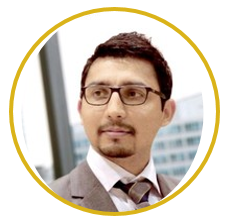
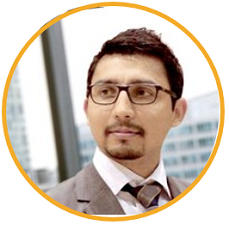
done

diff --git a/index.html b/index.html
@@ -13,6 +13,12 @@
 		<noscript><link rel="stylesheet" href="assets/css/noscript.css" /></noscript>
 	</head>
 	<body class="is-preload">
+	<script type="text/javascript">
+	  function myFunction() {
+	 var dt = new Date();
+	 alert(dt);
+	}
+	</script>
 		<!-- Wrapper -->
 			<div id="wrapper">
 
@@ -68,7 +74,7 @@
 					<nav id="menu">
 						<h2>55 PUMPKIN</h2>
 						<ul>
-							<li><a href="index.html">Home</a></li>
+							<li><a href="index.html" onclick="myFunction();">Home</a></li>
 							<li><a href="#offerings">Offerings</a></li>
 							<li><a href="#team">Team</a></li>
 							<li><a href="#contact">Contact</a></li>
@@ -99,35 +105,42 @@
 													<div class="col-6 col-12-medium">
 														<ul class="actions small">
 															
-															<li><a href="#rpa" class="button small">RPA</a></li>
-															<li><a href="#ml" class="button small">ML</a></li>
-															<li><a href="#ai" class="button small">AI</a></li>
-															<li><a href="#" class="button small">ANALYTICS</a></li>
-															<li><a href="#" class="button small">LOGGING</a></li>
+															<li><a href="#rpa" class="button large">RPA</a></li>
+															<li><a href="#ml" class="button small">ROBOTICS PROCESS AUTOMATION</a></li>
+													
 														</ul>
 														<ul class="actions small">
 															
-															<li><a href="#rpa" class="button small">RPA</a></li>
-															<li><a href="#ml" class="button small">ML</a></li>
-															<li><a href="#ai" class="button small">AI</a></li>
-															<li><a href="#" class="button small">ANALYTICS</a></li>
-															<li><a href="#" class="button small">LOGGING</a></li>
-														</ul>
-
-														<ul class="actions small">
 															
-															<li><a href="#rpa" class="button small">RPA</a></li>
-															<li><a href="#ml" class="button small">ML</a></li>
-															<li><a href="#ai" class="button small">AI</a></li>
-															<li><a href="#" class="button small">ANALYTICS</a></li>
-															<li><a href="#" class="button small">LOGGING</a></li>
+															<li><a href="#ml" class="button large">ML</a></li>
+															<li><a href="#" class="button small">DATA ANALYSIS</a></li>
+															<li><a href="#ai" class="button small">MACHINE LEARNING</a></li>
+															<li><a href="#" class="button small">ARTIFICIAL INTELLIGENCE</a></li>
+															
 														</ul>
 
 														<ul class="actions small">
 															
-															<li><a href="#rpa" class="button small">RPA</a></li>
-															<li><a href="#ml" class="button small">ML</a></li>
-															<li><a href="#ai" class="button small">AI</a></li>
+															<li><a href="#rpa" class="button large">ANALYTICS</a></li>
+															<li><a href="#ml" class="button small">REAL TIME</a></li>
+															<li><a href="#ai" class="button small">BUSINESS INSIGHTS</a></li>
+															
+														</ul>
+
+														<ul class="actions small">
+															
+															<li><a href="#rpa" class="button large">MONITORING</a></li>
+															<li><a href="#ml" class="button small">BOT MONITORING</a></li>
+															<li><a href="#ai" class="button small">BOT INSIGHTS</a></li>
+															<li><a href="#ai" class="button small">REPORTING</a></li>
+															
+														</ul>
+
+														<ul class="actions small">
+															
+															<li><a href="#rpa" class="button large">SUPPORT</a></li>
+															<li><a href="#ml" class="button small">POST PRODUCTION</a></li>
+															<li><a href="#ai" class="button small">ENHANCEMENTS</a></li>
 															<li><a href="#" class="button small">ANALYTICS</a></li>
 															<li><a href="#" class="button small">LOGGING</a></li>
 														</ul>
@@ -150,7 +163,7 @@
 											
 											
 											
-											<h3>Nav Randhawa</h3>
+											<h2>Nav Randhawa - <span style="color:#DAB319">CEO</span></h2>
 											<p><span class="image left"><img src="images/nav.png" alt="" /></span>
 Technical Consultant with more than 10+ years of professional experience in Software development, IT Consulting and Industry.
 Designed and delivered multiple projects in Robotic Process Automation using WorkFusion, OpenSpan tools (now Pega Systems).
@@ -164,87 +177,19 @@ Possess strong technical knowledge in RPA Tools(Workfusion, OpenSpan), Git, TFS,
 
 											</p>
 
-											<h3>Amaninder Hajrah</h3>
-											<p><span class="image right"><img src="images/nav.png" alt="" /></span>`tis eget. tempus euismod. Vestibulum ante ipsum primis in faucibus vestibulum. Blandit adipiscing eu felis iaculis volutpat ac adipiscing accumsan eu faucibus. Integer ac pellentesque praesent.</p><br><br>
+											<h2>Amaninder Hajrah  - <span style="color:#DAB319">CTO</span></h2>
+											<p><span class="image right"><img src="images/ricky.png" alt="" /></span>`tis eget. tempus euismod. Vestibulum ante ipsum primis in faucibus vestibulum. Blandit adipiscing eu felis iaculis volutpat ac adipiscing accumsan eu faucibus. Integer ac pellentesque praesent.</p><br><br>
 
-											<h3>Soumya Swain</h3>
-											<p><span class="image left"><img src="images/nav.png" alt="" /></span>`tis eget. tempus euismod. Vestibulum ante ipsum primis in faucibus vestibulum. Blandit adipiscing eu felis iaculis volutpat ac adipiscing accumsan eu faucibus. Integer ac pellentesque praesent.</p>
+											<h2>Soumya Swain  - <span style="color:#DAB319">CFO</span></h2>
+											<p><span class="image left"><img src="images/soumya.png" alt="" /></span>- Developing and implementing software systems and applications to achieve corporate objectives.<br>
+- Applying accepted theories of decision analysis to forecasting and linear programming.<br>
+- Analyzing current systems and create, test, implement, maintain and document programs through knowledge of the system-development cycle. </p>
 										
 										</div>
 									</section>
 								</div>
 							</footer1>
 
-							<!--
-							<section class="tiles">
-								<article class="style1">
-									<span class="image">
-										<img src="images/pic01.jpg" alt="" />
-									</span>
-									<a href="machine_learning.html">
-										<h2>RPA</h2>
-										<div class="content">
-											<p>Robotics Process Automation</p>
-										</div>
-									</a>
-								</article>
-								<article class="style2">
-									<span class="image">
-										<img src="images/pic02.jpg" alt="" />
-									</span>
-									<a href="machine_learning.html">
-										<h2>ML/AI</h2>
-										<div class="content">
-											<p>Machine Learning and Artificial Intelligence</p>
-										</div>
-									</a>
-								</article>
-								<article class="style3">
-									<span class="image">
-										<img src="images/pic03.jpg" alt="" />
-									</span>
-									<a href="machine_learning.html">
-										<h2>Integration</h2>
-										<div class="content">
-											<p>Middleware integration technologies.</p>
-										</div>
-									</a>
-								</article>
-								<article class="style4">
-									<span class="image">
-										<img src="images/pic04.jpg" alt="" />
-									</span>
-									<a href="machine_learning.html">
-										<h2>Reporting</h2>
-										<div class="content">
-											<p>Reporting solutions customised to meet Busines and IT needs</p>
-										</div>
-									</a>
-								</article>
-								<article class="style5">
-									<span class="image">
-										<img src="images/pic05.jpg" alt="" />
-									</span>
-									<a href="machine_learning.html">
-										<h2>Logging</h2>
-										<div class="content">
-											<p>Minimlistic custom logging to enable faster issue resolution.</p>
-										</div>
-									</a>
-								</article>
-								<article class="style6">
-									<span class="image">
-										<img src="images/pic06.jpg" alt="" />
-									</span>
-									<a href="machine_learning.html">
-										<h2>Support</h2>
-										<div class="content">
-											<p>Our custom gets the highest level support.</p>
-										</div>
-									</a>
-								</article>
-							</section>
-						-->
 						
 				<!-- Footer -->
 					<footer id="footer">

diff --git a/machine_learning.html b/machine_learning.html
@@ -1,0 +1,133 @@
+<!DOCTYPE HTML>
+<!--
+	Phantom by HTML5 UP
+	html5up.net | @ajlkn
+	Free for personal and commercial use under the CCA 3.0 license (html5up.net/license)
+-->
+<html>
+	<head>
+		<title>Machine Learning - 55 PUMPKIN</title>
+		<meta charset="utf-8" />
+		<meta name="viewport" content="width=device-width, initial-scale=1, user-scalable=no" />
+		<link rel="stylesheet" href="assets/css/main.css" />
+		<noscript><link rel="stylesheet" href="assets/css/noscript.css" /></noscript>
+	</head>
+	<body class="is-preload">
+		<!-- Wrapper -->
+			<div id="wrapper">
+
+				<!-- Header -->
+					<header id="header">
+					<script src="assets/js/bonsai.js"></script>
+						<div class="inner">
+
+							<!-- Logo -->
+								<a href="welcome.html" class="logo">
+									<div id="p_logo"></div><span style="color:#DAB319" class="title">PUMPKIN</span>
+								</a>
+
+							<!-- Nav -->
+								<nav>
+									<ul>
+										<li><a href="#menu"> PUMPKIN</a></li>
+									</ul>
+								</nav>
+
+						</div>
+					</header>
+					<script>
+  bonsai.run(document.getElementById('p_logo'), {
+    code: function() {
+      new Polygon(21, 28, 21, 7).fill("#DAB319").addTo(stage);
+var t = new Text('55').addTo(stage).attr({
+  fontFamily: 'Montserrat ExtraLight',
+  fontSize: '20',
+  textStrokeColor: '#FFFFFF',
+  textStrokeWidth: 3,
+  textAlign:'center',
+  textFillColor : '#DAB319',
+  charSpacing: 0
+});
+t.animate(new KeyframeAnimation('1s', {
+  from: { x: 20, y: 7},
+  '100%': { x: 20, y: 21 },
+  to: { x: 20, y: 19 }
+}));
+    },
+    width: 50,
+    height: 46
+  });
+</script>
+
+				<!-- Menu -->
+					<nav id="menu">
+						<h2>55 PUMPKIN</h2>
+						<ul>
+							<li><a href="welcome.html">Home</a></li>
+							<li><a href="machine_learning.html">Machine Learning</a></li>
+						</ul>
+					</nav>
+
+				<!-- Main -->
+					<div id="main">
+						<div class="inner">
+							<h1>Machine Learning</h1>
+							<span class="image main"><img src="images/ml.jpeg" alt="" /></span>
+							<p>We provide custom machine learning algorithms</p>
+							<p>Ensure high accuracy and F1 scores</p>
+							<p>Model maintenace and retraining</p>
+						</div>
+					</div>
+
+				<!-- Footer -->
+					<footer id="footer">
+						<div class="inner">
+							<section>
+								<h2>Get in touch</h2>
+								<form method="post" action="#">
+									<div class="fields">
+										<div class="field half">
+											<input type="text" name="name" id="name" placeholder="Name" />
+										</div>
+										<div class="field half">
+											<input type="email" name="email" id="email" placeholder="Email" />
+										</div>
+										<div class="field">
+											<textarea name="message" id="message" placeholder="Message"></textarea>
+										</div>
+									</div>
+									<ul class="actions">
+										<li><input type="submit" value="Send" class="primary" /></li>
+									</ul>
+								</form>
+							</section>
+							<section>
+								<h2>Follow</h2>
+								<ul class="icons">
+									<li><a href="#" class="icon brands style2 fa-twitter"><span class="label">Twitter</span></a></li>
+									<li><a href="#" class="icon brands style2 fa-facebook-f"><span class="label">Facebook</span></a></li>
+									<li><a href="#" class="icon brands style2 fa-instagram"><span class="label">Instagram</span></a></li>
+									<li><a href="#" class="icon brands style2 fa-dribbble"><span class="label">Dribbble</span></a></li>
+									<li><a href="#" class="icon brands style2 fa-github"><span class="label">GitHub</span></a></li>
+									<li><a href="#" class="icon brands style2 fa-500px"><span class="label">500px</span></a></li>
+									<li><a href="#" class="icon solid style2 fa-phone"><span class="label">Phone</span></a></li>
+									<li><a href="#" class="icon solid style2 fa-envelope"><span class="label">Email</span></a></li>
+								</ul>
+							</section>
+							<ul class="copyright">
+								<li>&copy; 55 Pumpkin. All rights reserved</li><li>Design: <a href="http://html5up.net">HTML5 UP</a></li>
+							</ul>
+						</div>
+					</footer>
+
+			</div>
+
+		<!-- Scripts -->
+			<script src="assets/js/jquery.min.js"></script>
+			<script src="assets/js/browser.min.js"></script>
+			<script src="assets/js/breakpoints.min.js"></script>
+			<script src="assets/js/util.js"></script>
+			<script src="assets/js/main.js"></script>
+
+	</body>
+</html>

diff --git a/assets/css/main.css b/assets/css/main.css
@@ -2562,7 +2562,10 @@ input, select, textarea {
 		input[type="button"].large,
 		button.large,
 		.button.large {
-			font-size: 1em;
+			font-size:0.6em;
+			box-shadow: none;
+			background-color: #DAB319;
+			color: #ffffff !important;
 		}
 
 		input[type="submit"].primary,
@@ -3384,6 +3387,7 @@ input, select, textarea {
 			-webkit-flex-direction: row;
 			-ms-flex-direction: row;
 			flex-direction: row;
+			width: 100%;
 		}
 
 			#footer1 > .inner > * > :last-child {
@@ -3391,7 +3395,7 @@ input, select, textarea {
 			}
 
 			#footer1 > .inner section:nth-child(1) {
-				width: calc(66% - 2.5em);
+				
 				margin-right: 2.5em;
 			}
 

diff --git a/index - Copy.html b/index - Copy.html
@@ -74,6 +74,15 @@ t.animate(new KeyframeAnimation('1s', {
 				<!-- Main -->
 					
 			</div>
+			
+			<!-- Image Map Generated by http://www.image-map.net/ -->
+<img src="https://www.gettingsmart.com/wp-content/uploads/2018/12/artificial-intelligence-education.jpg" usemap="#image-map">
+
+<map name="image-map">
+    <area target="_self" alt="RPA" title="RPA" href="https://google.com" coords="180,162,120,102" shape="rect">
+    <area target="_self" alt="FB" title="FB" href="https:/facebook.com" coords="388,364,317,295" shape="rect">
+    <area target="" alt="" title="" href="" coords="" shape="0">
+</map>
 
 			<div id="wrapper">
 
